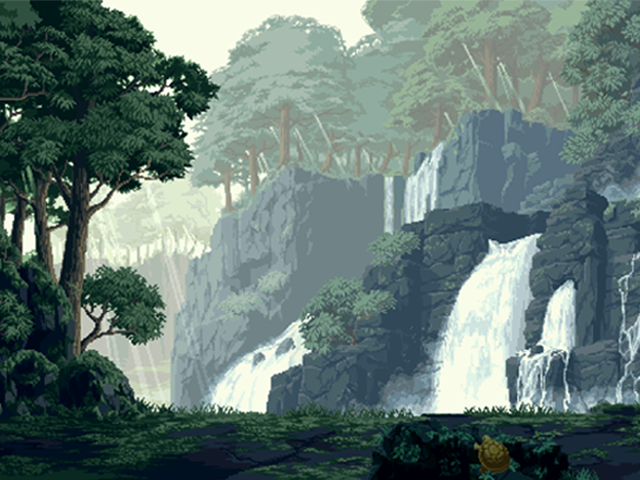
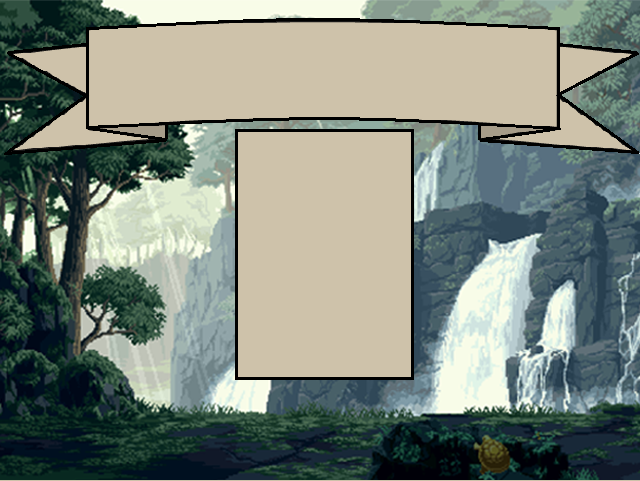
Add files via upload

diff --git a/TheLastWarrior/main.py b/TheLastWarrior/main.py
@@ -1,7 +1,8 @@
+import sys
 import pygame
 from sprites import *
 from config import *
-import sys
+
 
 class Game:
     """class for game"""
@@ -35,6 +36,7 @@ class Game:
         self.attack_spritesheet = Spritesheet('images/attack.png')
         self.enemy_spritesheet = Spritesheet('images/enemy01.png')
         self.intro_background = pygame.image.load('./images/introbackground.png')
+        self.intro2_background = pygame.image.load('./images/intro2background.png')
         self.choose_char_background = pygame.image.load('./images/char_select_background.png')
         self.game_over_background = pygame.image.load('./images/gameover.png')
         self.game_won_background = pygame.image.load('./images/gamewon.png')
@@ -50,7 +52,7 @@ class Game:
             new_enemy = Enemy(self, x, y)
             self.enemies.add(new_enemy)
 
-    def createTilemap(self):
+    def create_tilemap(self):
         """creates the tilemap for the game, from the info in config"""
 
         #itterates through tilemap
@@ -94,7 +96,7 @@ class Game:
         self.enemies = pygame.sprite.LayeredUpdates()
         self.attacks = pygame.sprite.LayeredUpdates()
 
-        self.createTilemap()
+        self.create_tilemap()
 
     def events(self):
         """game loop events"""
@@ -103,9 +105,7 @@ class Game:
             if event.type == pygame.QUIT:
                 self.playing = False
                 self.running = False
-            # if event.type ==  pygame.MOUSEBUTTONDOWN: #Test
-            #     game.new()
-            #     game.main()
+
             if event.type == pygame.KEYDOWN:
                 if event.key == pygame.K_SPACE:
                     if self.player.facing == 'up':
@@ -160,6 +160,12 @@ class Game:
         }
         self.character_spritesheet = self.char_dictionary[self.char_selection]
         self.new()
+
+        #  # Start the timer after the character is chosen
+        # self.start_time = pygame.time.get_ticks()
+        
+        # # Introduce a 1-second delay (1000 milliseconds)
+        # pygame.time.delay(1000)
 
     def main(self):
         """game loop"""
@@ -236,7 +242,7 @@ class Game:
         title_lower_rect = title_lower.get_rect(x=250, y=90)
 
         # Clear the screen at the beginning of each frame
-        self.screen.blit(self.intro_background, (0, 0))
+        self.screen.blit(self.intro2_background, (0, 0))
 
         # Display the game over title
         self.screen.blit(title_upper, title_upper_rect)
@@ -420,16 +426,16 @@ class Game:
 
         intro = True
 
-        title = self.font.render('The Last Warrior', True, BLACK)
-        title_rect = title.get_rect(x=130, y=170)
+        title1 = self.font.render('THE LAST WARRIOR', True, BLACK)
+        title1_rect = title1.get_rect(x=120, y=14)
 
-        play_button = Button(240, 280, 180, 70, WHITE, BLACK, f"{startresume}", 60)
+        play_button = Button(255, 140, 140, 50, WHITE, BLACK, f"{startresume}", 40)
 
-        exit_button = Button(420, 370, 100, 40, WHITE, BLACK, 'EXIT GAME', 32)
+        exit_button = Button(255, 320, 140, 50, WHITE, BLACK, 'EXIT GAME', 40)
 
-        highscore_button = Button(280, 370, 100, 40, WHITE, BLACK, 'HIGH SCORES', 32)
+        highscore_button = Button(255, 260, 140, 50, WHITE, BLACK, 'HIGH SCORES', 40)
 
-        how_to_button = Button(140, 370, 100, 40, WHITE, BLACK, 'HOW TO PLAY', 32)
+        how_to_button = Button(255, 200, 140, 50, WHITE, BLACK, 'HOW TO PLAY', 40)
 
         while intro is True:
             for event in pygame.event.get():
@@ -442,7 +448,7 @@ class Game:
 
             if play_button.is_pressed(mouse_pos, mouse_pressed):
                 intro = False
-                if startresume == 'Start Game':
+                if startresume == 'START GAME':
                     self.character_select()
 
             elif exit_button.is_pressed(mouse_pos, mouse_pressed):
@@ -459,7 +465,7 @@ class Game:
                 self.instructions()            
 
             self.screen.blit(self.intro_background, (0,0))
-            self.screen.blit(title, title_rect)
+            self.screen.blit(title1, title1_rect)
             self.screen.blit(play_button.image, play_button.rect)
             self.screen.blit(exit_button.image, exit_button.rect)
             self.screen.blit(highscore_button.image, highscore_button.rect)
@@ -521,7 +527,7 @@ class Game:
 
             if menu_button.is_pressed(mouse_pos, mouse_pressed):
                 char_sel = True
-                self.intro_screen('Start Game')
+                self.intro_screen('START GAME')
 
             elif valen_button.is_pressed(mouse_pos, mouse_pressed):
                 char_sel = False
@@ -582,7 +588,7 @@ class Game:
             if back_button.is_pressed(mouse_pos, mouse_pressed):
                   # Return to the intro screen
                   instructions = False
-                  self.intro_screen('Start Game')
+                  self.intro_screen('START GAME')
 
             self.clock.tick(FPS)
             pygame.display.update()
@@ -669,7 +675,7 @@ def run_game():
     except pygame.error:
         print('Cannot load sound')
     
-    game.intro_screen('Start Game')
+    game.intro_screen('START GAME')
     game.new()
 
     # Game loop if the game is running, be in main, until playing is false, the game is over
@@ -682,7 +688,3 @@ def run_game():
 
 if __name__ == '__main__':
     run_game()
-
-
-
-

diff --git a/TheLastWarrior/config.py b/TheLastWarrior/config.py
@@ -7,7 +7,8 @@ Date:November 29, 2022
 Description:
 Welcome to The Last Warrior! 
 This is a mini RPG. In this game, you can choose between four characters. 
-Once you've made your choice it's your job to kill all the enemies with the three lives you are given. 
+Once you've made your choice it's your job to kill all the enemies with 
+the three lives you are given. 
 
 This file is for configurations
 """
@@ -40,7 +41,6 @@ WHITE = (255,255,255)
 
 #B = Blocked, P = Player, T = Tree, E = Enemy
 tilemap = [
-    
     'TTTTTTTTTTTTTTTTTTTT',
     'T.......E..........T',
     'T..E...........E...T',
@@ -57,4 +57,3 @@ tilemap = [
     'T........B.........T',
     'TTTTTTTTTTTTTTTTTTTT', 
 ]
-

diff --git a/TheLastWarrior/tempCodeRunnerFile.py b/TheLastWarrior/tempCodeRunnerFile.py
@@ -1,2 +1,12 @@
-    def End(self):
-        pygame.quit()
+    def stats(self,score,lives):
+        """stats for the game. keyword arguments: score, lives"""
+
+        score1 = self.smallfont.render("SCORE:" + str(score), True, WHITE)
+        score_rect = score1.get_rect(x=80, y=0)
+        lives1 = self.smallfont.render('LIVES:' + str(lives), True, WHITE)
+        lives_rect = lives1.get_rect(x=0, y=0)
+
+        self.screen.blit(score1, score_rect)
+        self.screen.blit(lives1, lives_rect)
+        # self.clock.tick(FPS)
+        pygame.display.update()

diff --git a/TheLastWarrior/sprites.py b/TheLastWarrior/sprites.py
@@ -40,8 +40,8 @@ class Player(pygame.sprite.Sprite):
         """initializes the playerparamters: self, game, x, y """
 
         # reset enemy count every time player is reinitialized
-        # global ENEMY_COUNT
-        # ENEMY_COUNT = 10
+        global ENEMY_COUNT
+        ENEMY_COUNT = 10
         self.game = game
 
         #player will be drawn above everything
